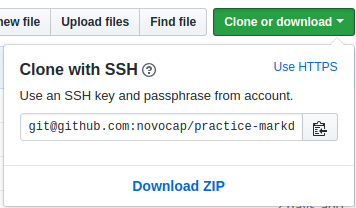
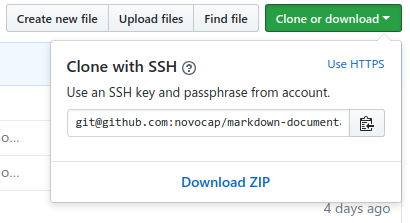
:wrench: Se cambia la referencia SSH del repositorio en la documentacion.

diff --git a/docs/SSH.md b/docs/SSH.md
@@ -73,7 +73,7 @@ Estas opciones se encuentran por ejemplo al Clonar un repositorio, que en vez de
 
 Otro ejemplo, es al momento de agregar la referencia al repositorio remoto dentro de los comandos locales de Git con la dirección SSH de clonación de GitHub/GitLab como también se mostraba en la imagen anterior. El siguiente comando sería un ejemplo con el repositorio actual:
 ```git
-git remote add origin git@github.com:novocap/practice-markdown-documentation.git
+git remote add origin git@github.com:novocap/markdown-documentation.git
 ```
 En un repositorio local ya vinculado con un repositorio remoto, se podrá observar la configuración con el siguiente comando:
 ```git
